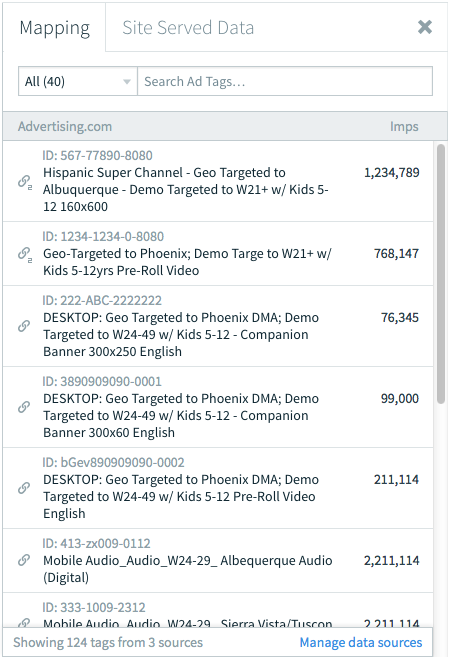
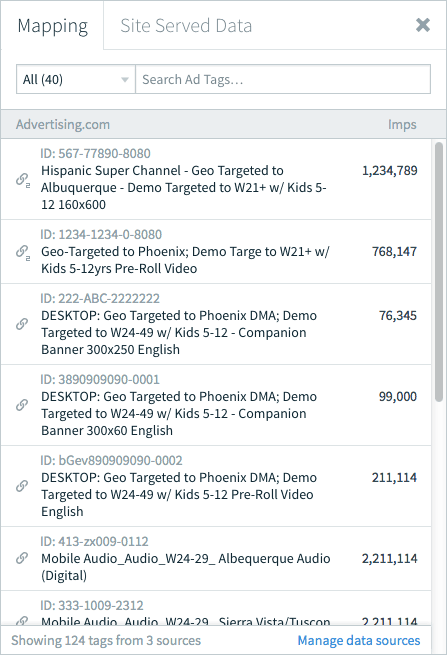
compress images

diff --git a/_posts/2013-08-07-ad-server-mapping.html b/_posts/2013-08-07-ad-server-mapping.html
@@ -24,7 +24,7 @@ custom_js:   [2013-08-07-ad-server-mapping.js]
           <span class="clickable"></span>
         </a>
         <a href="#" class="overlay__select">
-          <span class="clickable"></span>
+          <span style="left: 1px;" class="clickable"></span>
         </a>
         <div class="overlay__source-wrapper">
           <div class="source-facebook" style="position: relative;">
